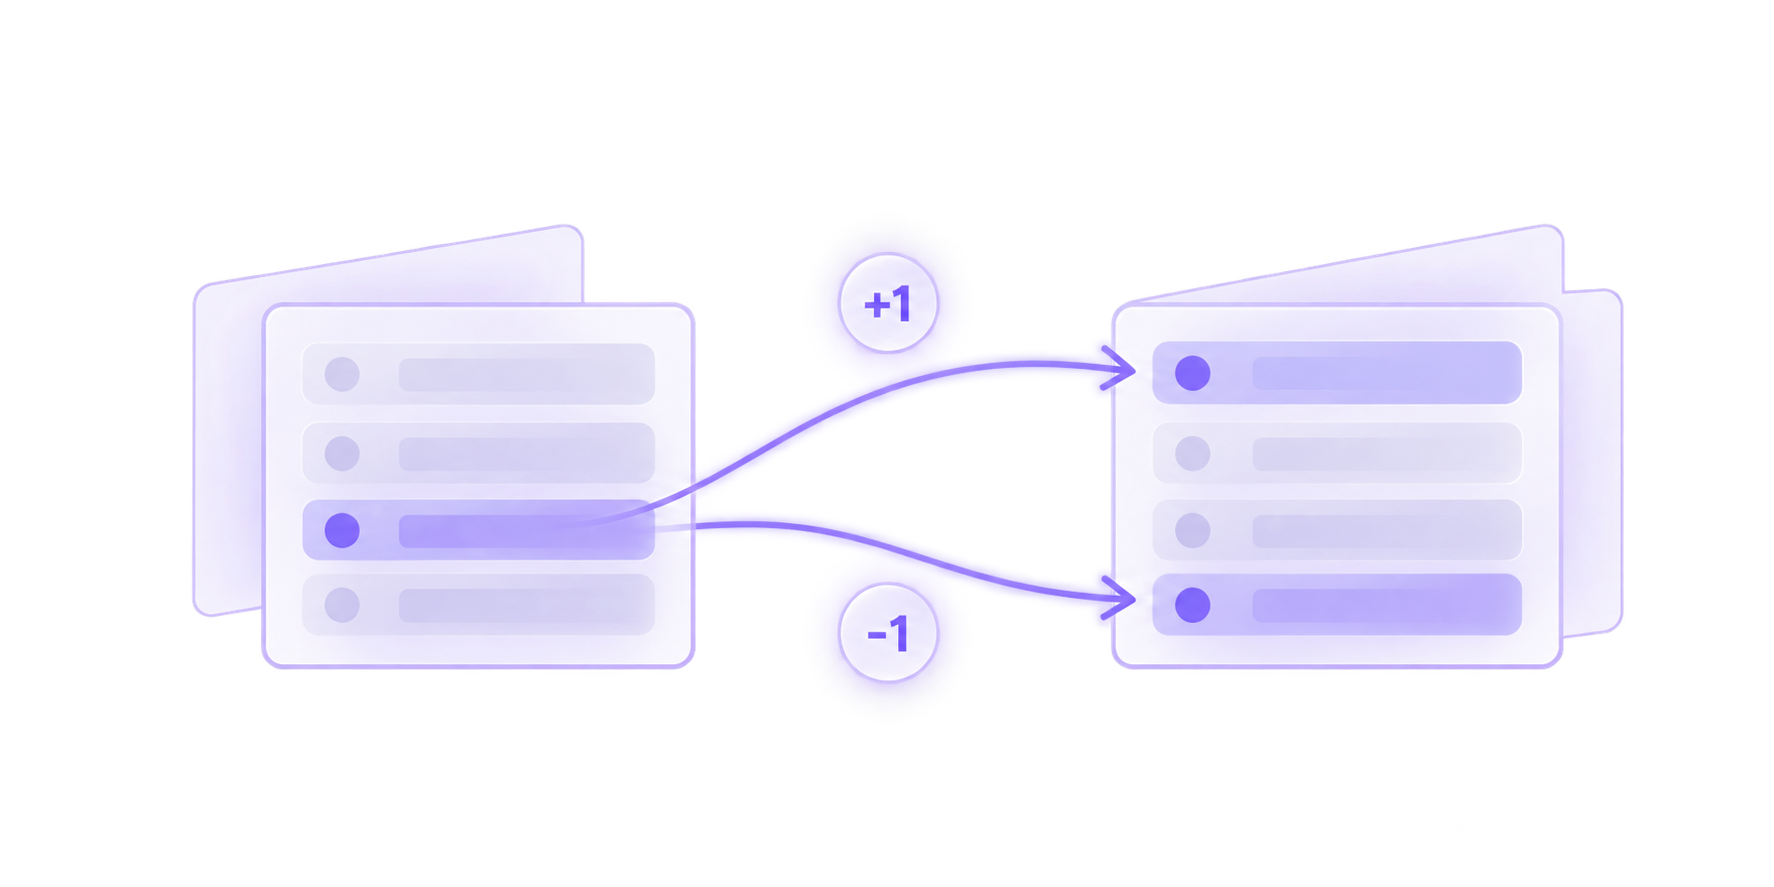
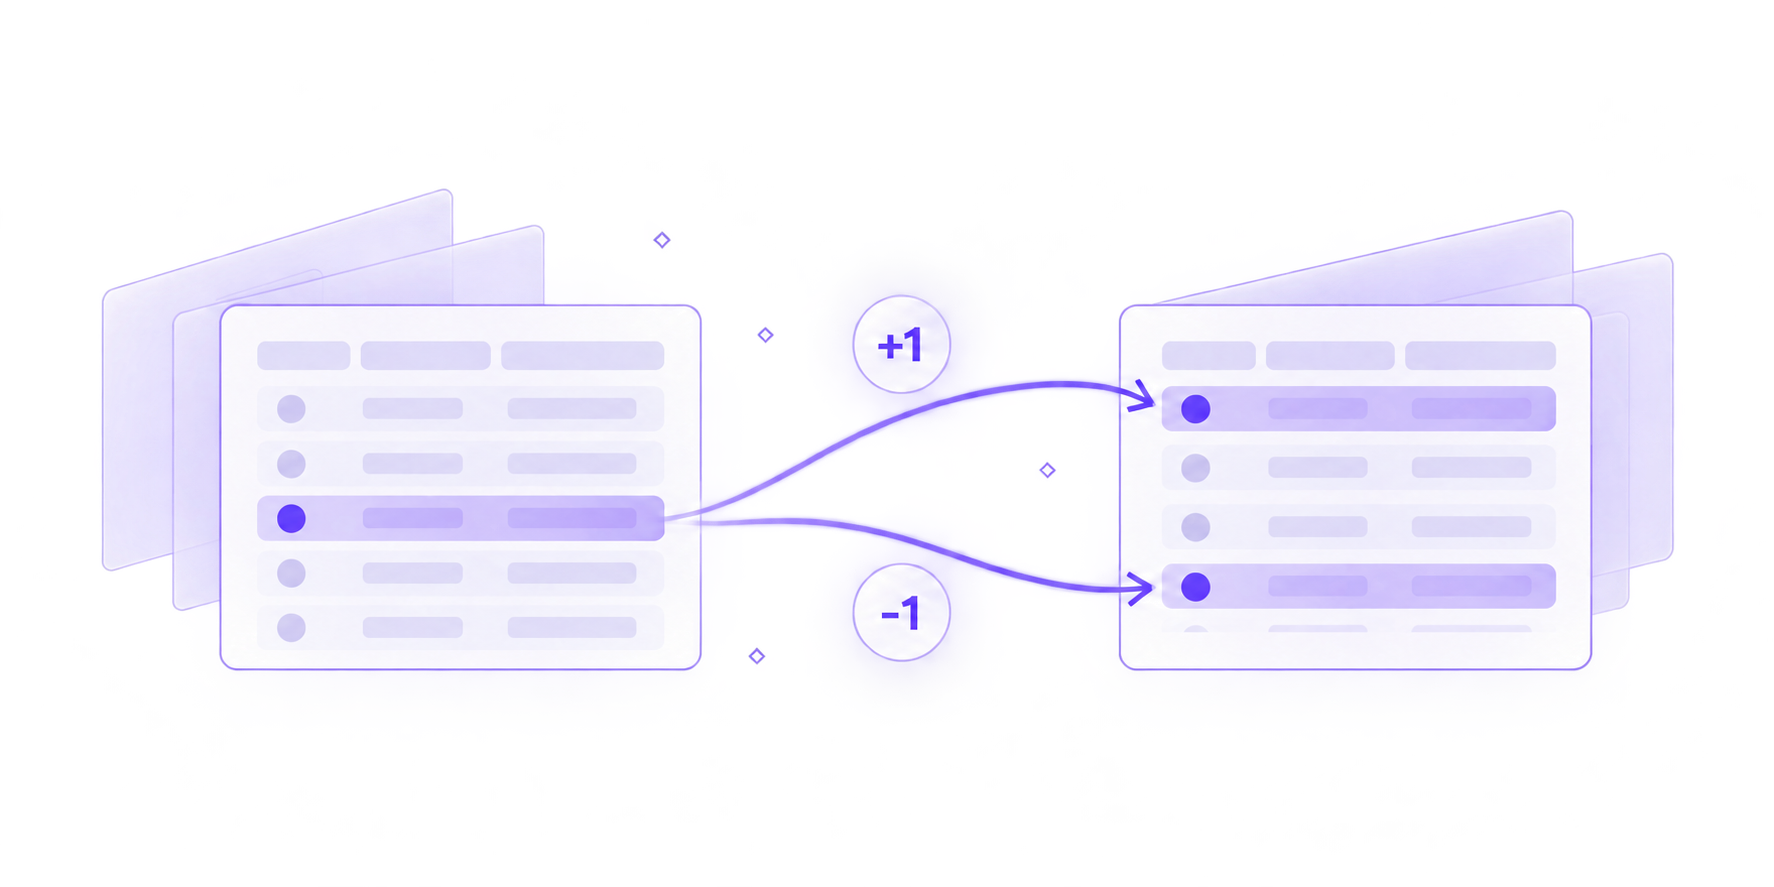
Unify chapter overview illustrations and responsive sizing

Changed region(s): [[0.031, 0.2131, 0.9611, 0.7914], [0.7441, 0.274, 0.8061, 0.3044]]

diff --git a/src/chapters/chapterRegistry.ts b/src/chapters/chapterRegistry.ts
@@ -27,6 +27,7 @@ export const chapters: readonly ChapterDefinition[] = [
     description: 'Reconstruct a changing relation from additions, retractions, and updates.',
     introduction: 'Learn how signed changes reconstruct a relation over logical time. Follow additions, retractions, and updates in two tutorials, then practice reading and writing diffs in a three-phase inventory exercise.',
     overviewImage: publicAsset('changing-relations-overview.png'),
+    overviewImageFit: 'cover',
     documentationLinks: [
       { title: 'SUBSCRIBE: logical timestamps and signed diffs', href: 'https://materialize.com/docs/sql/subscribe/#output' },
       { title: 'SUBSCRIBE: snapshots and initial state', href: 'https://materialize.com/docs/sql/subscribe/#snapshot' },
@@ -46,7 +47,7 @@ export const chapters: readonly ChapterDefinition[] = [
     description: 'Trace one input change through filters, joins, and aggregates.',
     introduction: 'Explore how input changes travel through SQL filters, joins, and grouped aggregates. Follow inserts, updates, and deletions through four interactive tutorials, compare incremental maintenance with full recomputation, then practice predicting which result rows change in two exercises.',
     overviewImage: publicAsset('incremental-maintenance-overview.png'),
-    overviewImageFit: 'contain',
+    overviewImageFit: 'cover',
     documentationLinks: [
       { title: 'SELECT: projections, WHERE filters, and GROUP BY', href: 'https://materialize.com/docs/sql/select/' },
       { title: 'JOIN: inner joins, matching keys, and multiple matches', href: 'https://materialize.com/docs/sql/select/join/#inner-join' },
@@ -80,7 +81,7 @@ export const chapters: readonly ChapterDefinition[] = [
     description: 'Follow initial snapshots and incoming changes into a source relation.',
     introduction: 'Follow data from an upstream system into Materialize. Explore initial snapshots and change data capture, then see how records become table changes with NONE, UPSERT, and DEBEZIUM envelopes. Work through four interactive tutorials and three exercises covering keys, updates, tombstones, and input errors.',
     overviewImage: publicAsset('getting-data-in-overview.png'),
-    overviewImageFit: 'contain',
+    overviewImageFit: 'cover',
     documentationLinks: [
       { title: 'Snapshotting: atomic initial loads and waiting queries', href: 'https://materialize.com/docs/fundamentals/concepts/snapshotting/' },
       { title: 'CREATE CONNECTION: reusable access to upstream systems', href: 'https://materialize.com/docs/sql/create-connection/' },
@@ -99,6 +100,8 @@ export const chapters: readonly ChapterDefinition[] = [
     shortTitle: 'Time in Materialize',
     description: 'Explore logical time and how maintained results change without new input.',
     introduction: 'Explore how logical time changes maintained results, even without new input. Follow expiration boundaries, future events, late arrivals, and changing deadlines through four interactive tutorials and three prediction exercises.',
+    overviewImage: publicAsset('time-in-materialize-overview.png'),
+    overviewImageFit: 'cover',
     documentationLinks: [
       { title: 'now() and mz_now(): system time and query logical time', href: 'https://materialize.com/docs/sql/functions/now_and_mz_now/' },
       { title: 'Temporal filters: valid comparisons and materialization restrictions', href: 'https://materialize.com/docs/transform-data/patterns/temporal-filters/#mz_now-requirements-and-restrictions' },

diff --git a/src/styles/chapter-overview.css b/src/styles/chapter-overview.css
@@ -67,14 +67,13 @@
   min-width: 0;
 }
 
+.chapter-overview[data-chapter='changing-relations'] .chapter-overview-hero {
+  grid-template-columns: minmax(0, 1fr) 400px;
+}
+
 .chapter-overview[data-chapter='incremental-maintenance'] .chapter-overview-hero,
 .chapter-overview[data-chapter='getting-data-in'] .chapter-overview-hero {
   grid-template-columns: minmax(0, 1fr) 444px;
-}
-
-.chapter-overview[data-chapter='incremental-maintenance'] .chapter-overview-illustration,
-.chapter-overview[data-chapter='getting-data-in'] .chapter-overview-illustration {
-  max-width: none;
 }
 
 .chapter-overview-hero h1 {
@@ -102,8 +101,23 @@
 }
 
 .chapter-overview-illustration-image {
-  aspect-ratio: 5 / 2;
-  object-fit: cover;
+  height: var(--overview-image-height, 160px);
+  object-fit: contain;
+}
+
+.chapter-overview[data-chapter='incremental-maintenance'] .chapter-overview-illustration-image,
+.chapter-overview[data-chapter='getting-data-in'] .chapter-overview-illustration-image {
+  max-width: 420px;
+  --overview-image-height: 180px;
+}
+
+.chapter-overview[data-chapter='views-indexes-materialized-views'] .chapter-overview-illustration-image {
+  --overview-image-height: 180px;
+}
+
+.chapter-overview[data-chapter='progress-and-freshness'] .chapter-overview-illustration-image,
+.chapter-overview[data-chapter='consistent-reads'] .chapter-overview-illustration-image {
+  --overview-image-height: 172px;
 }
 
 .chapter-learn-more {
@@ -430,10 +444,15 @@
 }
 
 @media (max-width: 1350px) {
+  .chapter-overview[data-chapter='changing-relations'] .chapter-overview-hero {
+    grid-template-columns: minmax(0, 1fr) 260px;
+  }
+
   .chapter-overview[data-chapter='incremental-maintenance'] .chapter-overview-hero,
   .chapter-overview[data-chapter='getting-data-in'] .chapter-overview-hero {
     grid-template-columns: minmax(0, 1fr) 288px;
   }
+
   .chapter-overview-hero {
     grid-template-columns: minmax(0, 1fr) 240px;
     gap: 20px;
@@ -442,6 +461,17 @@
   .chapter-overview-illustration {
     max-width: 100%;
     margin-bottom: 0;
+  }
+
+  .chapter-overview .chapter-overview-illustration-image {
+    height: auto;
+    aspect-ratio: 5 / 2;
+  }
+
+  .chapter-overview[data-chapter='views-indexes-materialized-views'] .chapter-overview-illustration-image,
+  .chapter-overview[data-chapter='progress-and-freshness'] .chapter-overview-illustration-image,
+  .chapter-overview[data-chapter='consistent-reads'] .chapter-overview-illustration-image {
+    aspect-ratio: 2 / 1;
   }
 
   .chapter-overview-hero h1 {

diff --git a/tests/e2e/foundation.spec.ts b/tests/e2e/foundation.spec.ts
@@ -55,6 +55,7 @@ test('chapter overview lists collapse independently and start their content', as
   await page.getByRole('link', { name: `Start tutorial: ${tutorials[0]!.title}`, exact: true }).click();
   await expect(page).toHaveURL(chapterContentPath(chapter, tutorials[0]!));
   await expect(page.locator('.guided-lab-title h1')).toBeVisible();
+  await expect(page.locator('body > .area-transition-viewport')).toHaveCount(0);
   if (isMobile) await page.locator('.mobile-sidebar > summary').click();
   await page.getByRole('navigation', { name: 'Chapters' }).getByRole('link', { name: 'Time in Materialize overview', exact: true }).click();
   await expect(page).toHaveURL(chapterPath(chapter));
@@ -74,12 +75,8 @@ test('overview illustrations keep a consistent frame when sections collapse near
   for (const slug of ['changing-relations', 'time-in-materialize']) {
     await page.goto(`/labs/${slug}`);
     const illustration = page.locator('.chapter-overview-illustration');
-    if (slug === 'changing-relations') {
-      await expect(illustration).toHaveAttribute('src', '/changing-relations-overview.png');
-      await expect.poll(() => illustration.evaluate((el) => (el as HTMLImageElement).naturalWidth)).toBeGreaterThan(0);
-    } else {
-      await expect(page.locator('svg.chapter-overview-illustration')).toHaveCount(1);
-    }
+    await expect(illustration).toHaveAttribute('src', `/${slug}-overview.png`);
+    await expect.poll(() => illustration.evaluate((el) => (el as HTMLImageElement).naturalWidth)).toBeGreaterThan(0);
     for (const width of [1350, 1351, 1366, 1440]) {
       await page.setViewportSize({ width, height: 900 });
       for (const expanded of [true, false]) {
@@ -98,8 +95,8 @@ test('overview illustrations keep a consistent frame when sections collapse near
         });
         expect(geometry.illustrationLeft, `Text separation in ${slug} at ${width}px, expanded=${expanded}`).toBeGreaterThanOrEqual(geometry.textRight + 16);
         expect(geometry.illustrationRight).toBeLessThanOrEqual(geometry.heroRight);
-        const frameKey = `${width}/${expanded}`;
-        if (slug === 'changing-relations') {
+        const frameKey = `${slug}/${width}`;
+        if (expanded) {
           imageFrames.set(frameKey, geometry);
         } else {
           const imageFrame = imageFrames.get(frameKey)!;

diff --git a/src/components/chapter/ChapterOverviewIllustration.tsx b/src/components/chapter/ChapterOverviewIllustration.tsx
@@ -11,7 +11,7 @@ export function ChapterOverviewIllustration({ imageSrc, imageFit = 'cover' }: Ch
         src={imageSrc}
         style={{ objectFit: imageFit }}
         width={400}
-        height={160}
+        height={200}
         alt=""
         aria-hidden="true"
       />

diff --git a/UI_LAYOUTS.md b/UI_LAYOUTS.md
@@ -113,6 +113,19 @@ The filter-choice question conceals the reference predicate until acceptance.
 
 ## Shared component ownership
 
+Chapter overview illustrations are chapter metadata in `chapterRegistry.ts`, backed
+by seven transparent `public/*-overview.png` assets. The hero retains the reference
+text-column widths and spacing above Learn more. Desktop image frames are 160px
+high, with 180px for the denser Chapter 3 diagram and the wider Chapters 2 and 4
+compositions, and 172px for the Chapter 6 and 7 timelines. The Chapter 2 and 4
+images cap at 420px within their existing 444px columns.
+Chapter 1 uses a slightly larger 400px image column (260px below 1350px) to balance
+its more open composition, while keeping the same frame height and section gaps.
+Chapter-owned fitting trims only empty canvas from wide scenes and contains the
+taller diagrams. `chapter-overview.css` preserves the compact-screen hiding rules
+and smaller frames below 1350px. PNG alpha blends naturally into both themes;
+overview and reused completion artwork need no color filters or blend modes.
+
 `ChapterSidebarEntry` toggles chapter branches when their rows are activated in
 the full sidebar or mobile chapter menu. Opening another chapter keeps the current
 page and its selected styling; Overview and activity links navigate explicitly.
